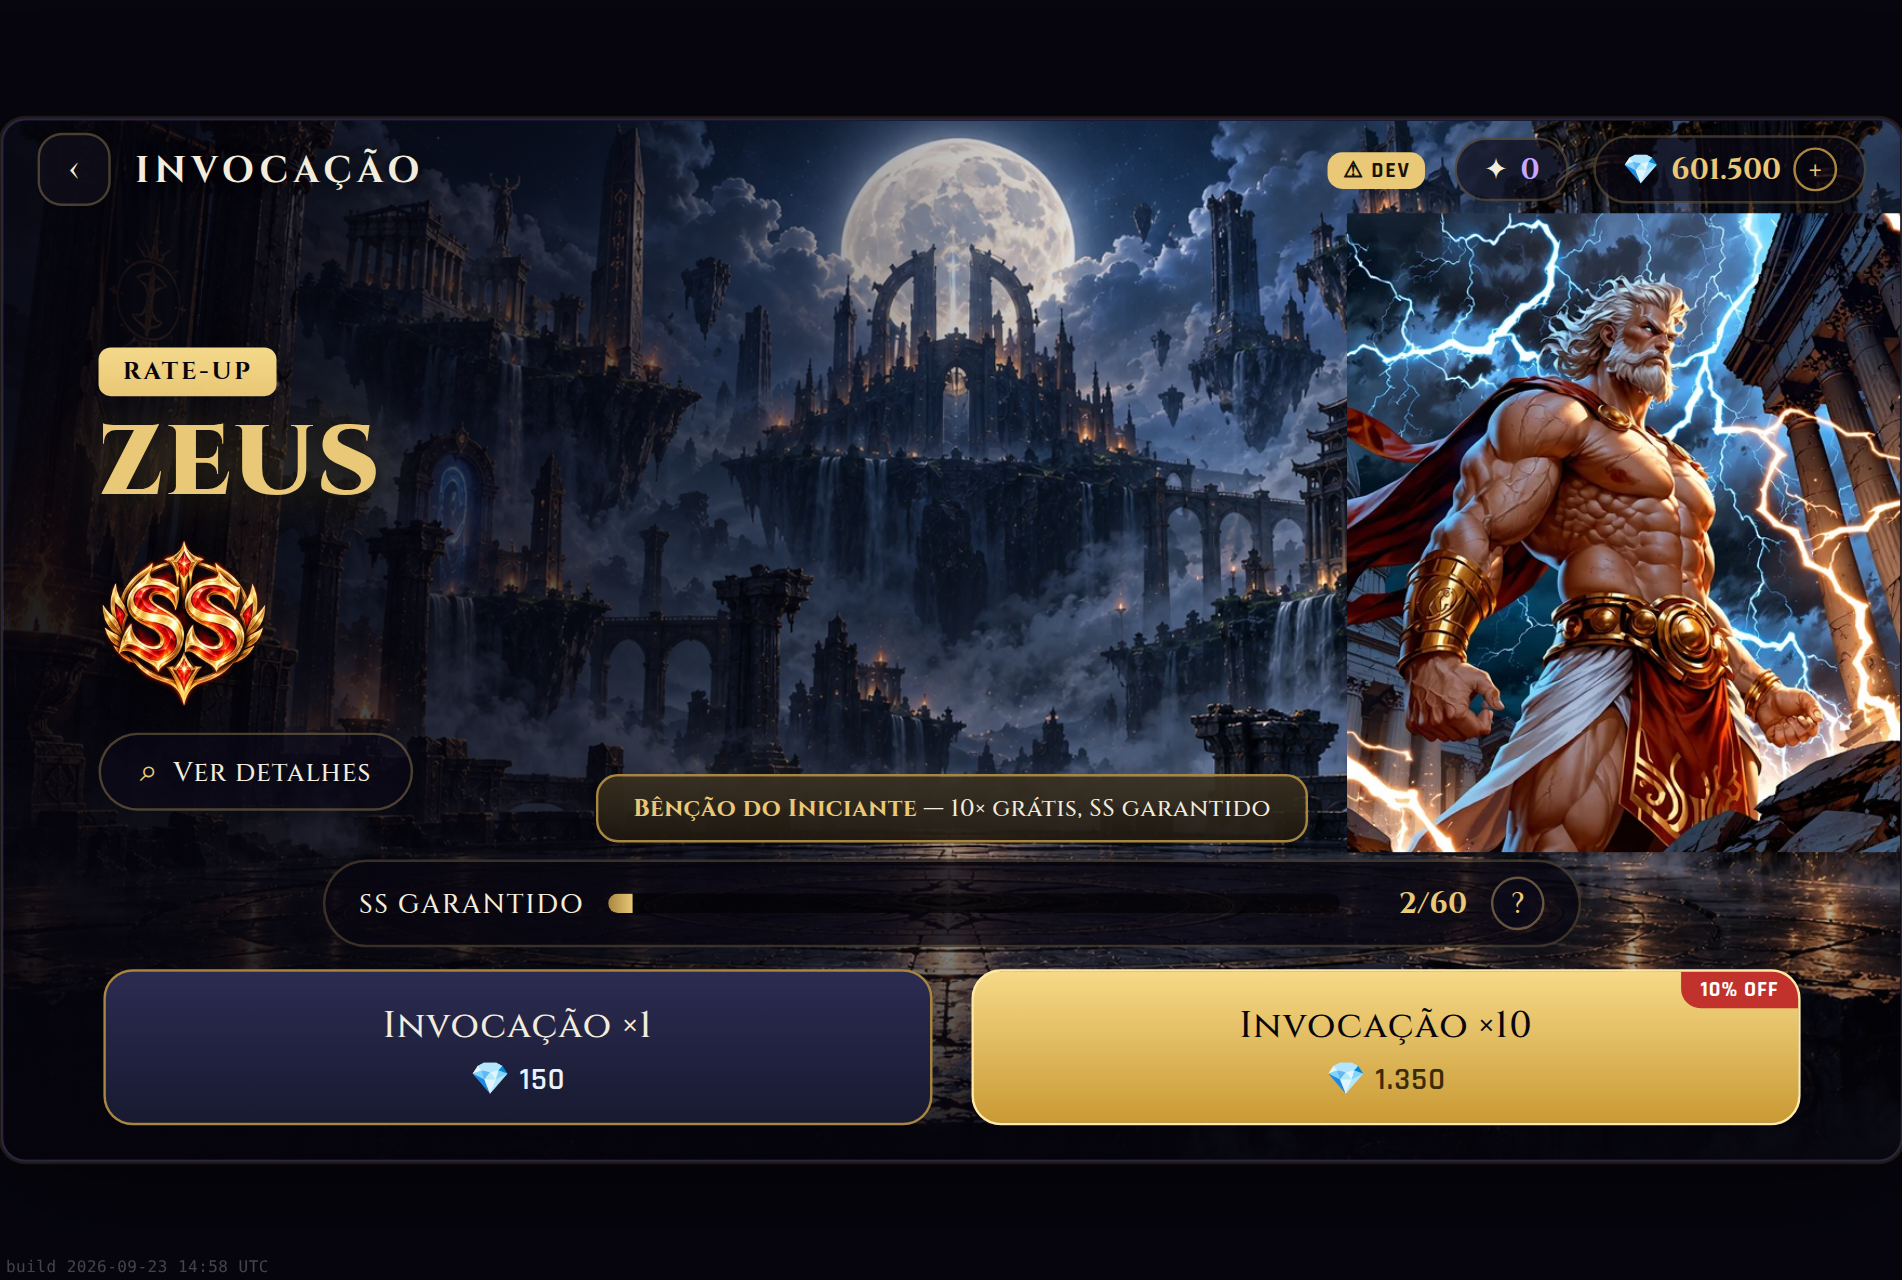
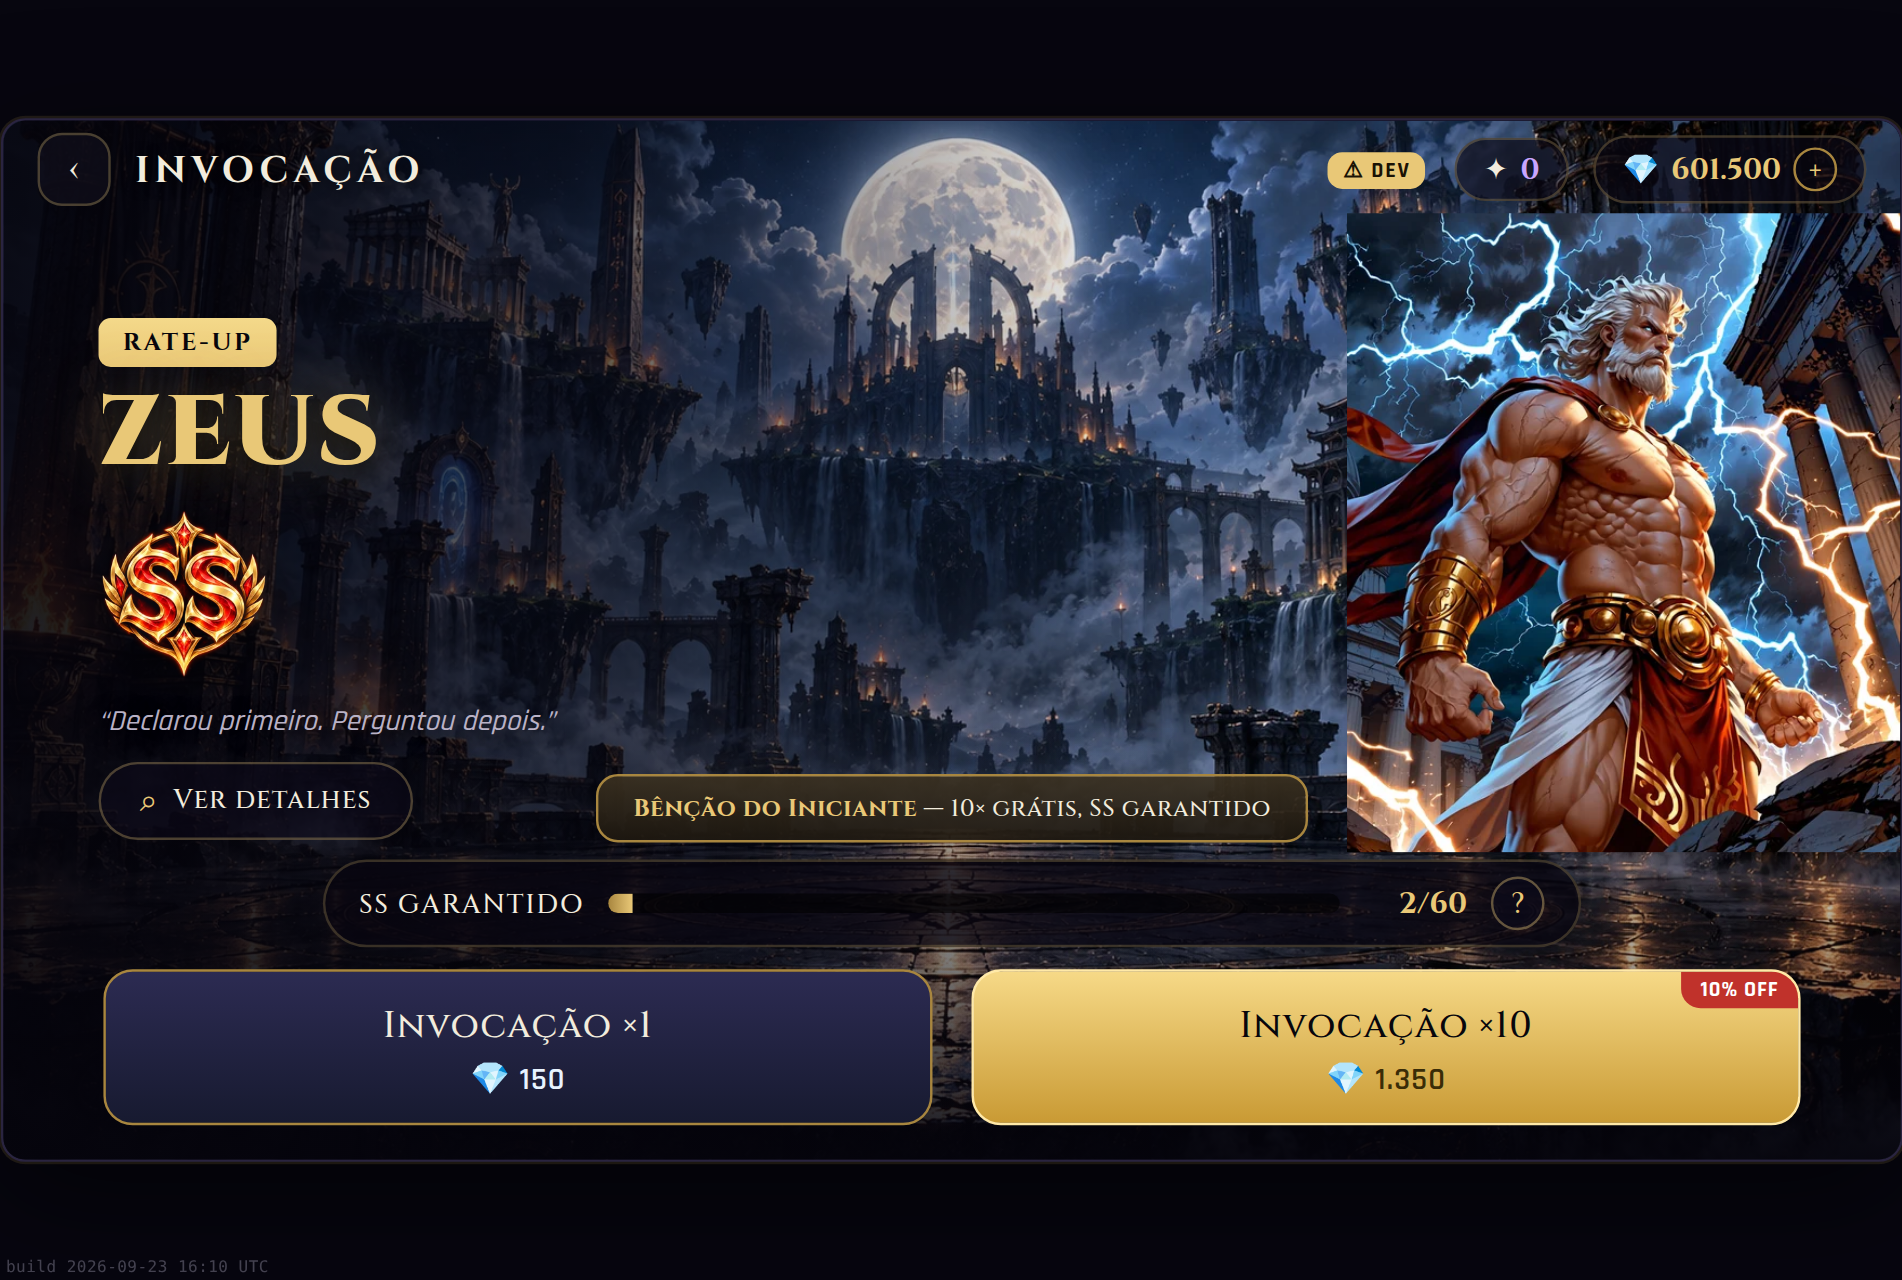
§304b: frase do Zeus no destaque — "Declarou primeiro. Perguntou depois."
Aplicada em data/invocacao.json destaque.frase. Lê em UMA linha (38 chars, 187px de 300
disponíveis no design / 228px @951), itálico 12px, entre o selo e o "Ver detalhes" — epigrama
limpo, não sobra buraco (a coluna re-centra). Guarda invocacao.test.js seção 12 ajustado para
testar o mecanismo some/aparece independente do valor do dado. Suíte + build verdes.

Claude-Session: https://claude.ai/code/session_01RXkcJMEMadTZtCymgt9Yf6

Changed region(s): [[0.031, 0.25, 0.2792, 0.6562]]

diff --git a/tests/invocacao.test.js b/tests/invocacao.test.js
@@ -205,14 +205,13 @@ console.log('== 12. §304 tela pelo mockup: preço do DADO, frase some, fundo/ar
     'os botões leem o custo de ECONOMIA.invocacao.custo (dado), não de um literal');
   ok(!/custo\s*[:=]\s*\d/.test(fonteInv) && !/cost\s*=\s*(150|1350)\b/.test(fonteInv), 'nenhum custo numérico escrito à mão em invocacao.js');
   ok(/10% OFF/.test($('.iv-pb.iv-x10').textContent), 'o selo 10% OFF fica no ×10 (o pacote de dez), não no ×1');
-  // (2) §304b: a FRASE é conteúdo do DESTAQUE (INVOCACAO.destaque.frase), não do elenco. Some quando não há, aparece
-  //     quando o dono escreve a de quem entra em destaque — nunca inventada.
+  // (2) §304b: a FRASE é conteúdo do DESTAQUE (INVOCACAO.destaque.frase), não do elenco. Testa o MECANISMO some/aparece,
+  //     independente do valor atual do dado (o dono pode ter escrito a do destaque da vez): força vazio, depois cheio.
+  w.eval("INVOCACAO.destaque._frase=INVOCACAO.destaque.frase; INVOCACAO.destaque.frase=undefined; INV.render();");
   ok(!$('.iv-hero__cite'), 'sem frase no destaque, a linha de citação SOME (nada renderiza)');
-  ok(!w.eval('!!(INVOCACAO.destaque && INVOCACAO.destaque.frase)'), 'o destaque NÃO tem frase preenchida (não inventada)');
   w.eval("INVOCACAO.destaque.frase='O céu obedece.'; INV.render();");
   ok(!!$('.iv-hero__cite') && /O céu obedece/.test($('.iv-hero__cite').textContent), 'com frase no destaque, a linha aparece (a tela É a casa da frase)');
-  w.eval("INVOCACAO.destaque.frase=undefined; INV.render();");
-  ok(!$('.iv-hero__cite'), 'removida a frase, a linha some de novo');
+  w.eval("INVOCACAO.destaque.frase=INVOCACAO.destaque._frase; delete INVOCACAO.destaque._frase; INV.render();");
   // (3) §304b: nada de epíteto/arquétipo nem de "Pai dos Deuses" nesta tela
   ok(!$('.iv-hero__arq'), 'sem linha de epíteto/arquétipo na tela de invocação (§304b)');
   ok(!/pai dos deuses/i.test($('#iv').textContent), 'nada de "Pai dos Deuses" (rótulo da referência que não existe no jogo)');
